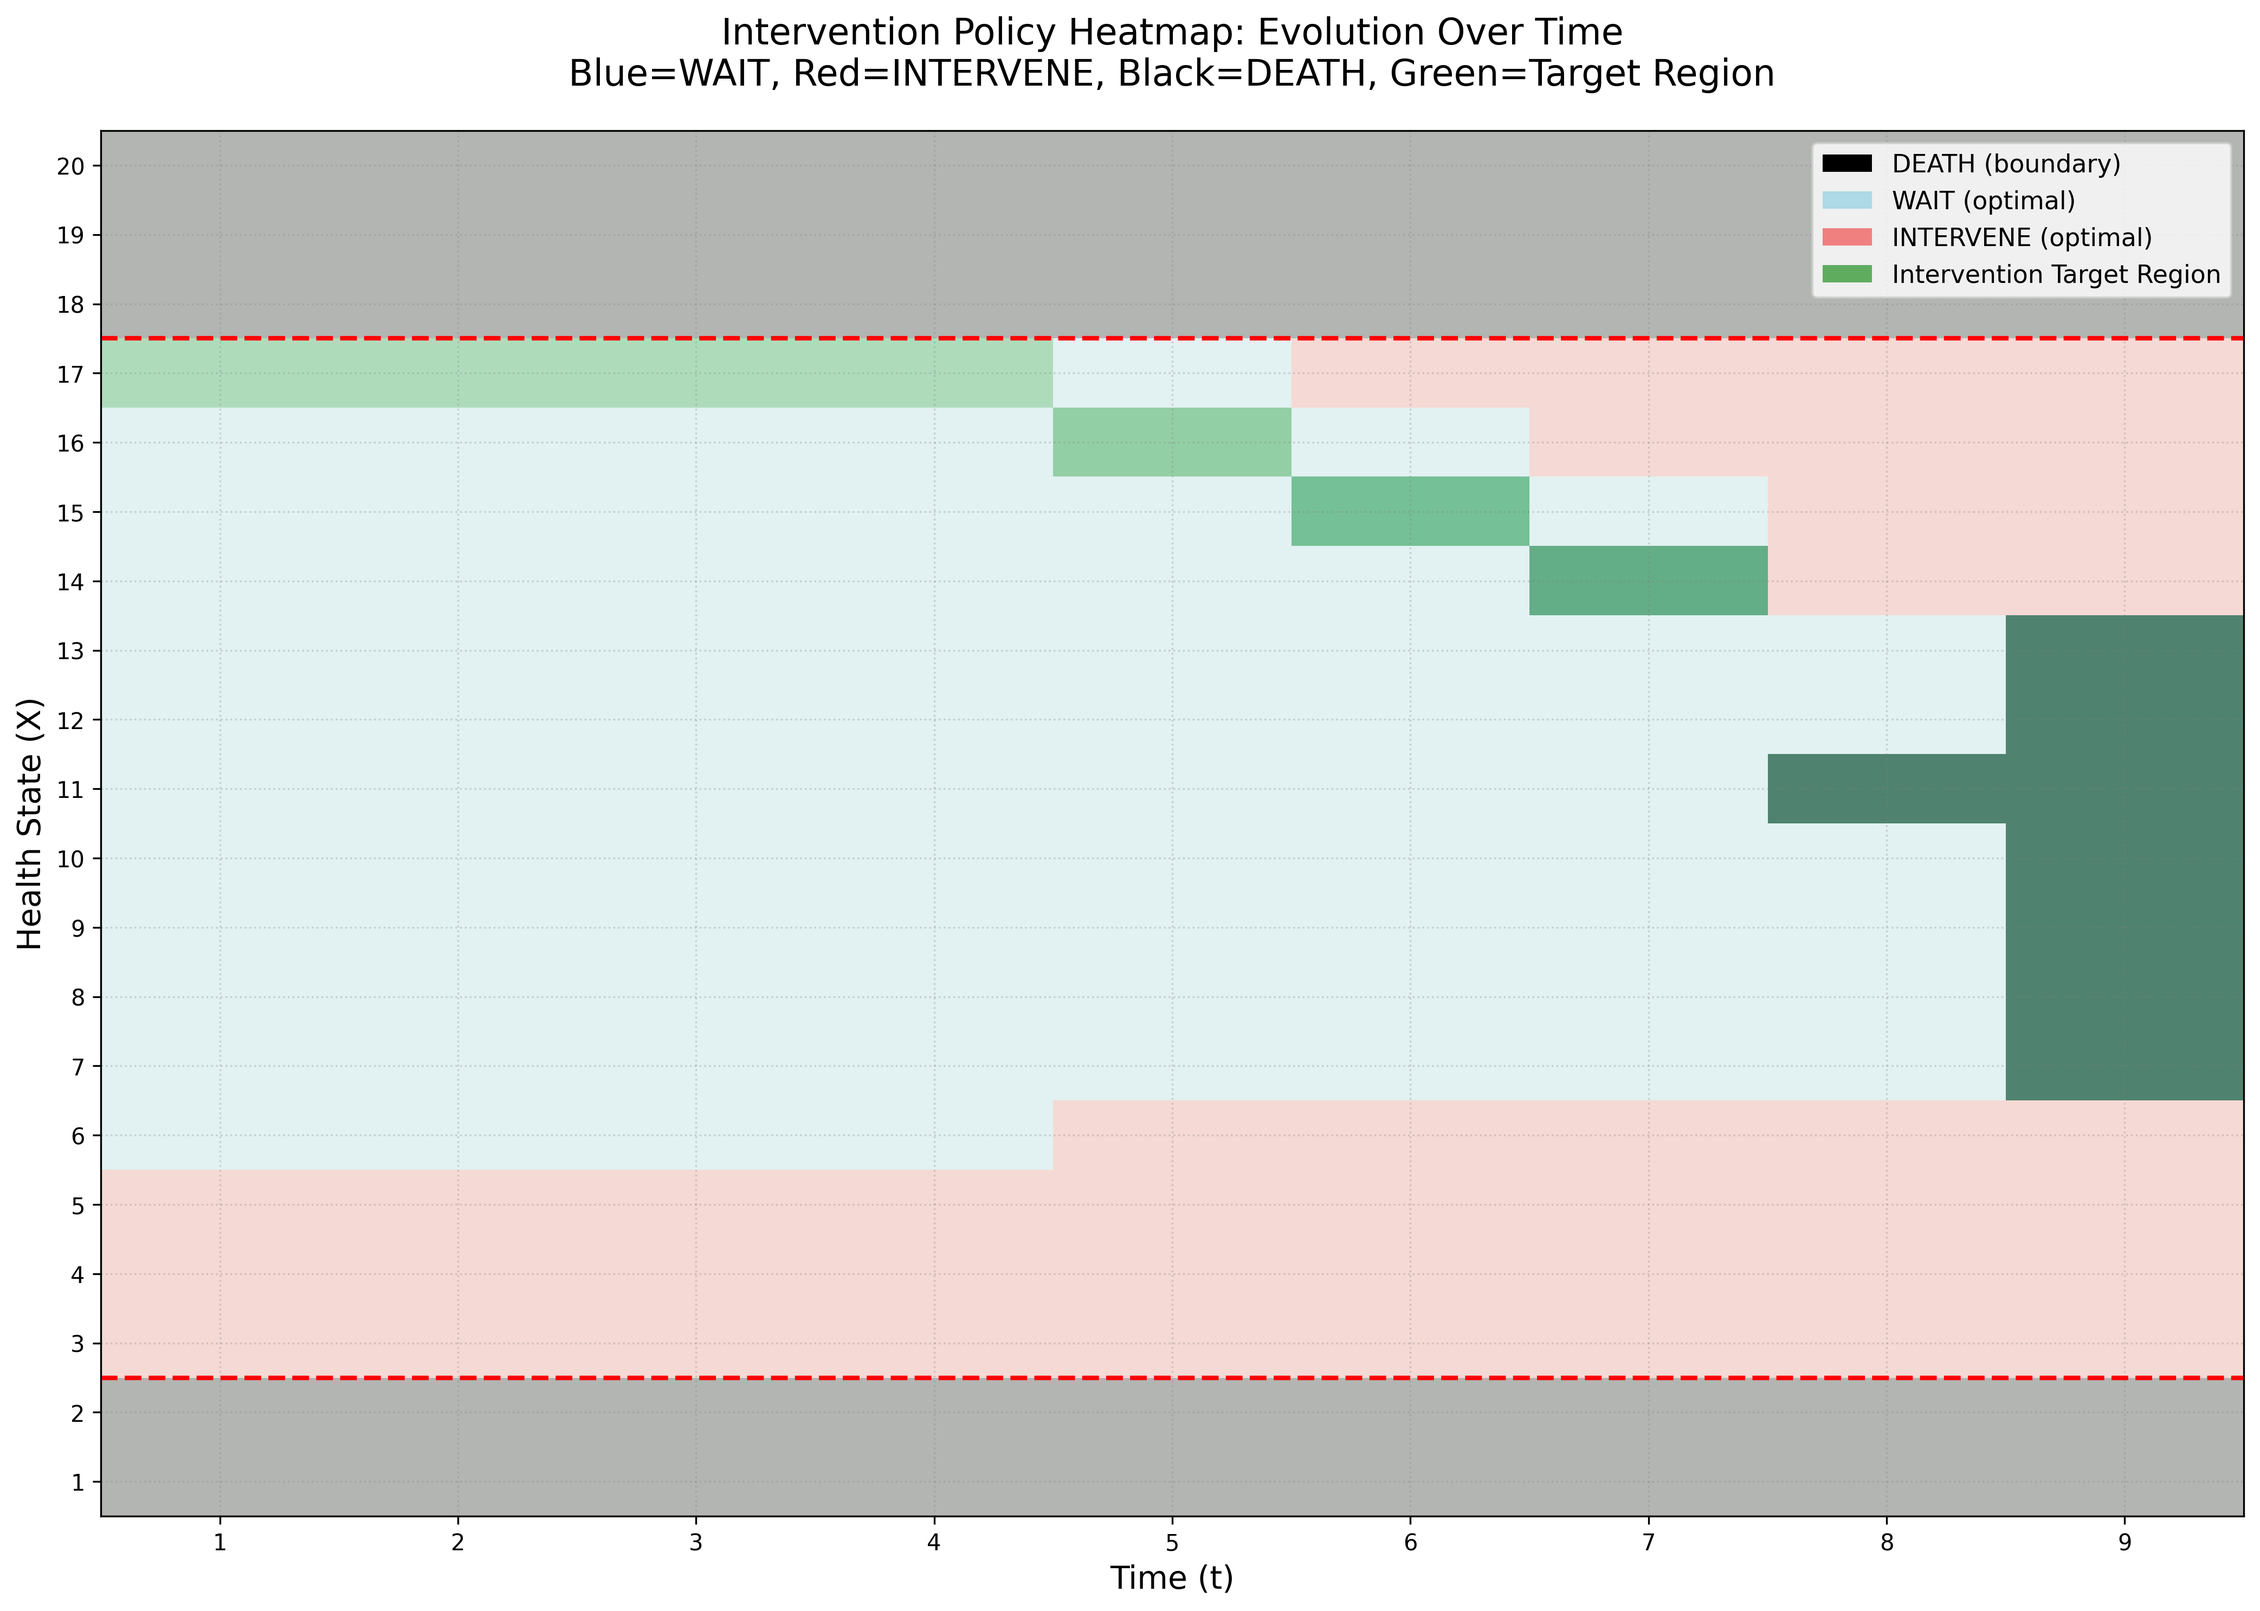
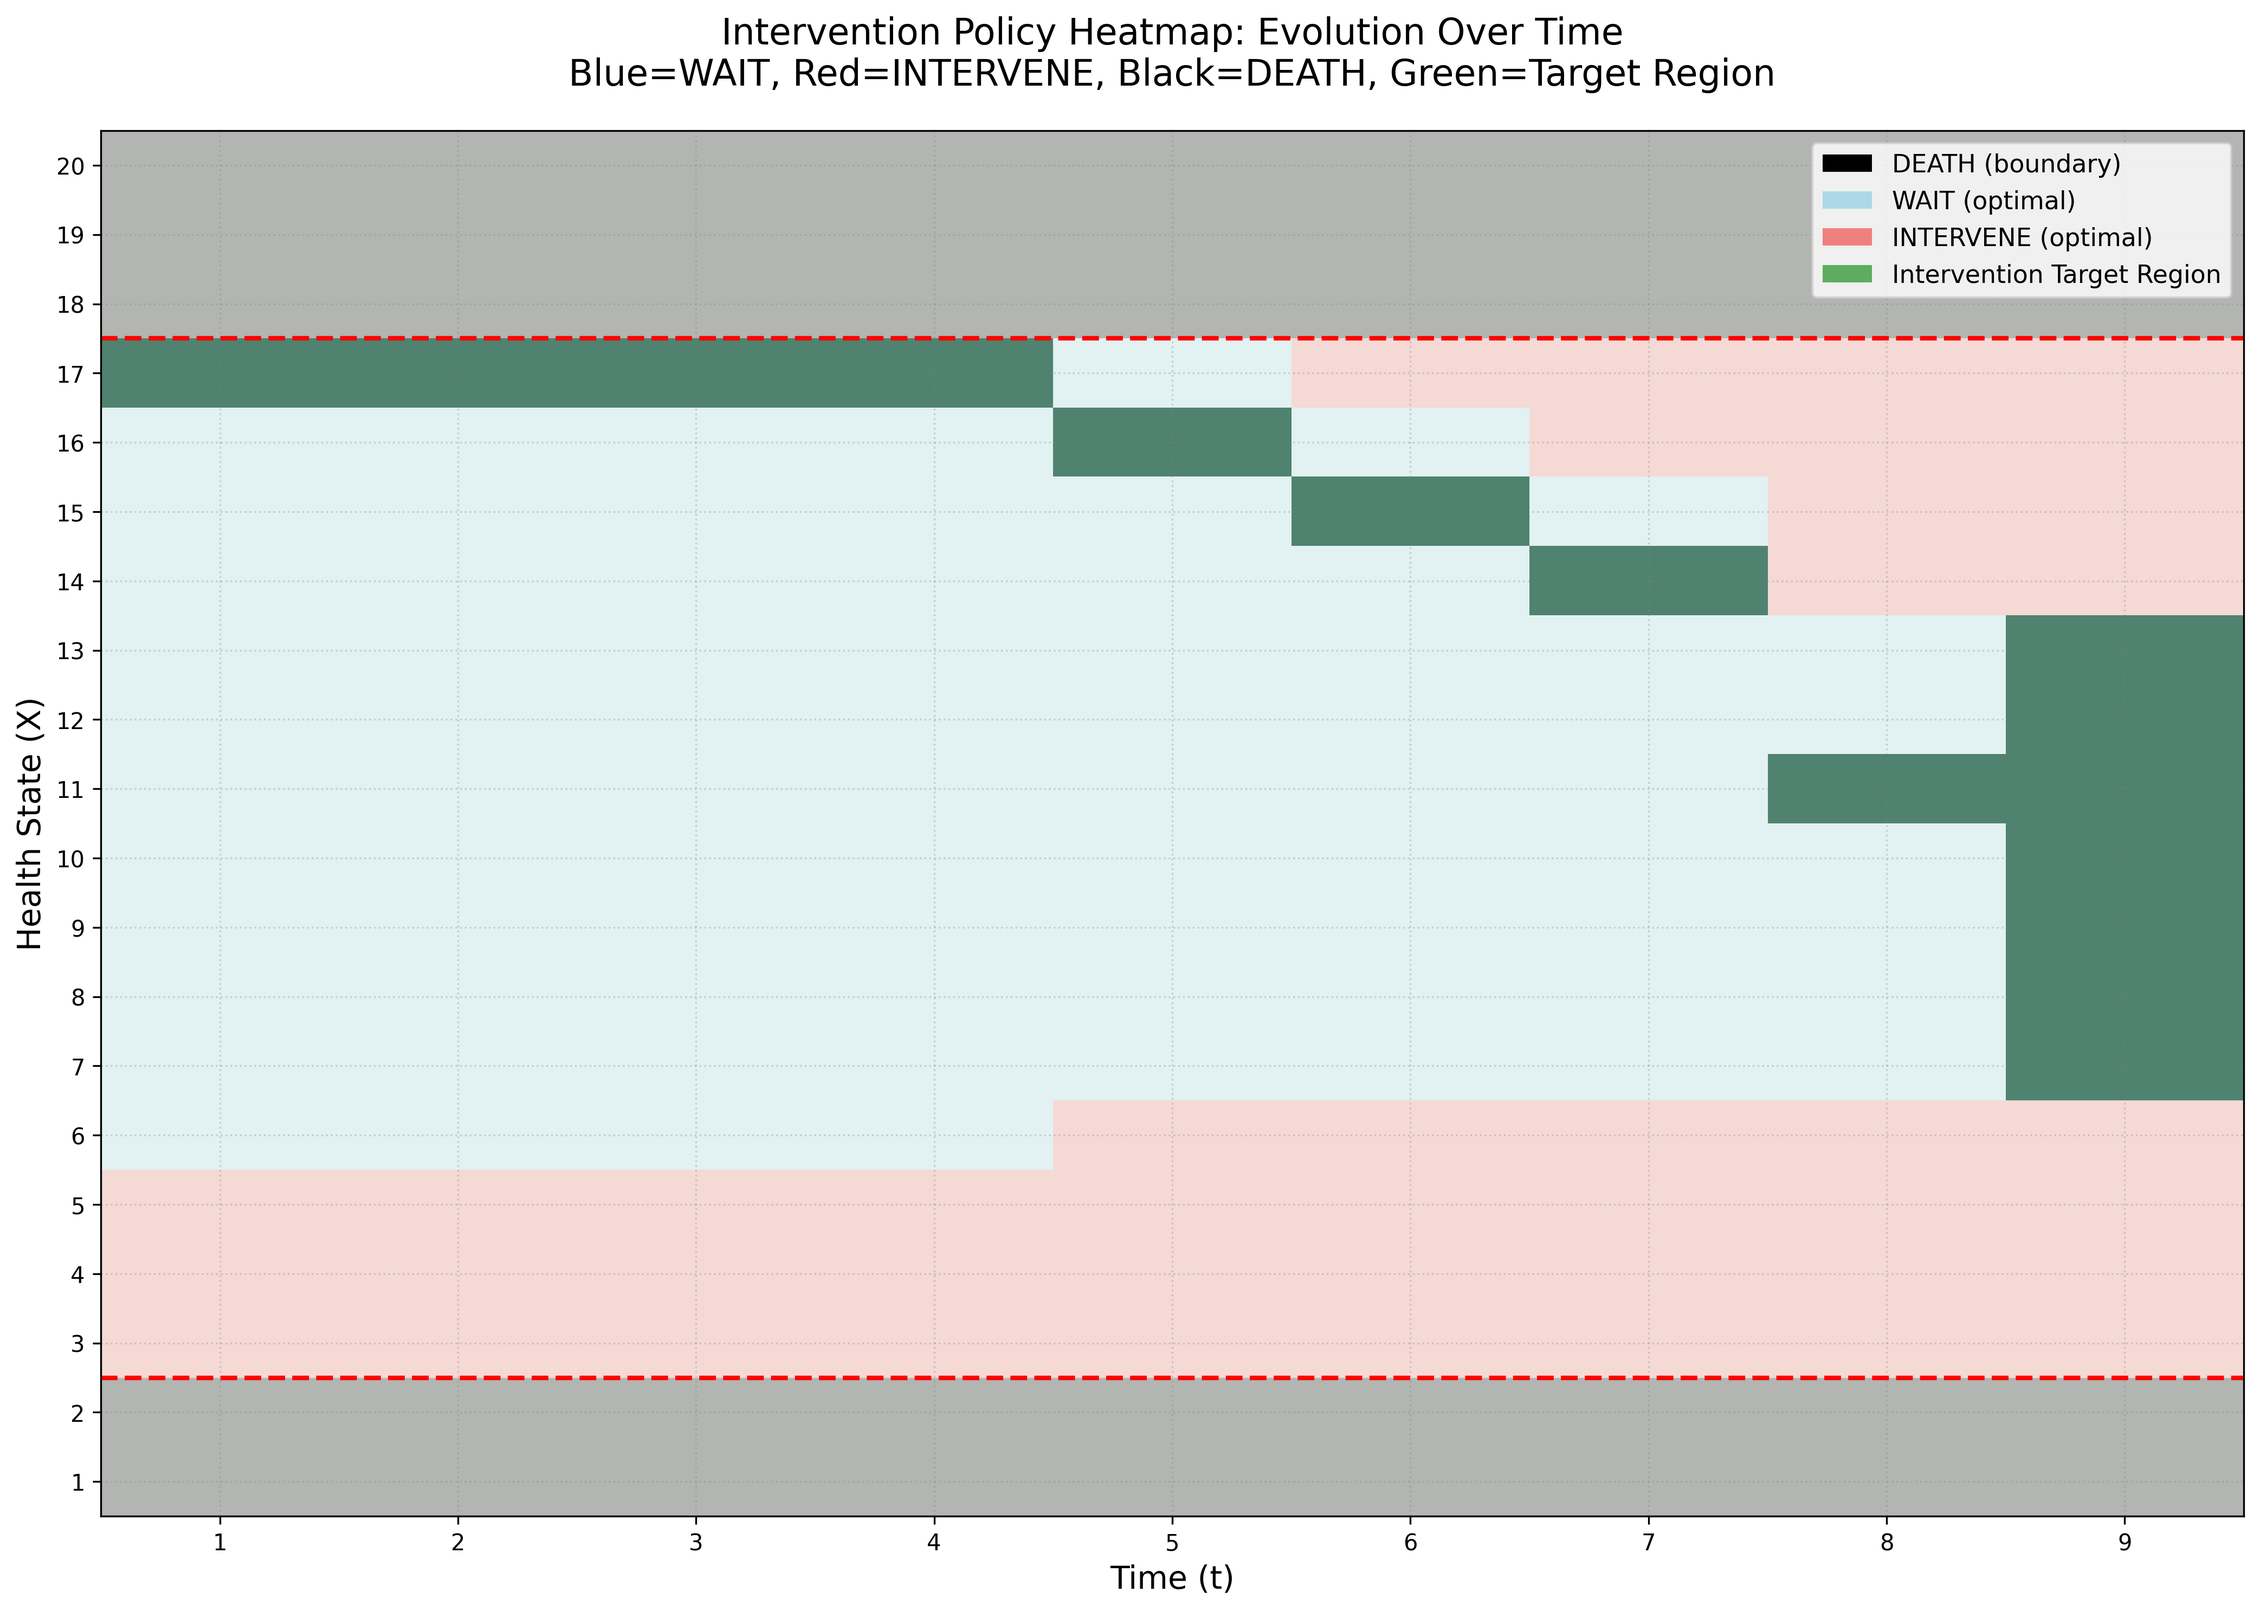
Added simulation

Changed region(s): [[0.0312, 0.1857, 0.7794, 0.4024]]

diff --git a/PhaseBOptimalStoppingProb/TEST.py b/PhaseBOptimalStoppingProb/TEST.py
@@ -232,15 +232,11 @@ class SimplifiedOptimalStopping:
                         targets = self.find_all_optimal_targets(t, X, U)
                         all_targets.update(targets)
                 
-                # Mark target region
+                # Mark target region (binary: 0 or 1)
                 for target_X in all_targets:
                     target_X_idx = target_X - self.X_min
                     if 0 <= target_X_idx < len(states):
-                        target_region[target_X_idx, t_idx] += 1
-        
-        # Normalize target region (darker = more states target this X)
-        if target_region.max() > 0:
-            target_region = target_region / target_region.max()
+                        target_region[target_X_idx, t_idx] = 1  # Just mark as 1, no accumulation
         
         # Create figure
         fig, ax = plt.subplots(figsize=(14, 10))
@@ -300,14 +296,191 @@ class SimplifiedOptimalStopping:
         print(f"2D heatmap saved to {filename}")
         return filename
 
+    def simulate_trajectories(self, n_sims=5, filename='intervention_simulations.png'):
+        print(f"Simulating {n_sims} trajectories...")
+        
+        if not self.policy:
+            print("Solving optimal stopping problem first...")
+            self.solve_optimal_stopping()
+        
+        # Run simulations
+        trajectories = []
+        
+        for sim in range(n_sims):
+            trajectory = {'t': [], 'X': [], 'intervened_at': None, 'survived': None}
+            
+            # Initialize - start at X0, sample first shock
+            t = 1
+            U_current = np.random.choice(self.U_values, p=self.U_probs)
+            X_current = self.X0  # <-- FIX: Just use X0 directly, no transition yet
+            I_current = 0
+            
+            trajectory['t'].append(t)
+            trajectory['X'].append(X_current)
+            
+            # Run trajectory
+            while t < self.T:
+                # Get policy for current state
+                policy = self.policy.get((t, X_current, U_current, I_current), 'WAIT')
+                
+                # Execute action
+                if policy == 'INTERVENE' and I_current == 0:
+                    X_target = self.optimal_intervention_target.get((t, X_current, U_current), X_current)
+                    X_current = X_target
+                    I_current = 1
+                    trajectory['intervened_at'] = t
+                
+                # Sample next shock and transition
+                U_next = np.random.choice(self.U_values, p=self.U_probs)
+                X_current = self.transition(X_current, U_next)
+                U_current = U_next
+                
+                t += 1
+                trajectory['t'].append(t)
+                trajectory['X'].append(X_current)
+            
+            # Check final outcome
+            trajectory['survived'] = self.compute_Y(X_current)
+            trajectories.append(trajectory)
+        
+        # Create visualization
+        fig, ax = plt.subplots(figsize=(14, 10))
+        
+        # First, recreate the heatmap background
+        times = np.arange(1, self.T)
+        states = np.arange(self.X_min, self.X_max + 1)
+        
+        policy_matrix = np.zeros((len(states), len(times)))
+        target_region = np.zeros((len(states), len(times)))
+        
+        for t_idx, t in enumerate(times):
+            for X_idx, X in enumerate(states):
+                if X < self.safe_min or X > self.safe_max:
+                    policy_matrix[X_idx, t_idx] = -1
+                    continue
+                
+                intervene_count = 0
+                wait_count = 0
+                
+                for U in self.U_values:
+                    policy = self.policy.get((t, X, U, 0), 'WAIT')
+                    if policy == 'INTERVENE':
+                        intervene_count += 1
+                    elif policy == 'WAIT':
+                        wait_count += 1
+                
+                if intervene_count > wait_count:
+                    policy_matrix[X_idx, t_idx] = 1
+                else:
+                    policy_matrix[X_idx, t_idx] = 0
+                
+                all_targets = set()
+                for U in self.U_values:
+                    if self.policy.get((t, X, U, 0)) == 'INTERVENE':
+                        targets = self.find_all_optimal_targets(t, X, U)
+                        all_targets.update(targets)
+                
+                for target_X in all_targets:
+                    target_X_idx = target_X - self.X_min
+                    if 0 <= target_X_idx < len(states):
+                        target_region[target_X_idx, t_idx] = 1
+        
+        # Plot heatmap
+        from matplotlib.colors import ListedColormap
+        colors = ['black', 'lightblue', 'lightcoral']
+        cmap = ListedColormap(colors)
+        
+        ax.imshow(policy_matrix, aspect='auto', origin='lower',
+                extent=[times[0]-0.5, times[-1]+0.5, 
+                        states[0]-0.5, states[-1]+0.5],
+                cmap=cmap, vmin=-1, vmax=1, alpha=0.4)
+        
+        ax.imshow(target_region, aspect='auto', origin='lower',
+                extent=[times[0]-0.5, times[-1]+0.5,
+                        states[0]-0.5, states[-1]+0.5],
+                cmap='Greens', alpha=0.3, vmin=0, vmax=1)
+        
+        # Add death zone boundaries
+        ax.axhline(y=self.safe_min - 0.5, color='red', linestyle='--', 
+                linewidth=2, alpha=0.7)
+        ax.axhline(y=self.safe_max + 0.5, color='red', linestyle='--', 
+                linewidth=2, alpha=0.7)
+        
+        # Plot trajectories
+        colors_sim = plt.cm.tab10(np.linspace(0, 1, n_sims))
+        
+        for idx, traj in enumerate(trajectories):
+            color = colors_sim[idx]
+            survived = traj['survived']
+            intervened_at = traj['intervened_at']
+            
+            # Plot line
+            label = f"Sim {idx+1}"
+            if survived:
+                label += " ✓"
+            else:
+                label += " ✗"
+            
+            ax.plot(traj['t'], traj['X'], 'o-', color=color, 
+                linewidth=2.5, markersize=8, alpha=0.9, label=label)
+            
+            # Mark intervention point with star
+            if intervened_at is not None:
+                intervened_idx = traj['t'].index(intervened_at)
+                ax.plot(traj['t'][intervened_idx], traj['X'][intervened_idx], 
+                    '*', color=color, markersize=20, markeredgecolor='yellow',
+                    markeredgewidth=2)
+        
+        # Labels and formatting
+        ax.set_xlabel('Time (t)', fontsize=14)
+        ax.set_ylabel('Health State (X)', fontsize=14)
+        ax.set_title(f'{n_sims} Simulated Trajectories with Optimal Policy\n' +
+                    'Stars (★) mark intervention, ✓=survived, ✗=died',
+                    fontsize=16, pad=20)
+        
+        ax.set_xticks(range(1, self.T + 1))
+        ax.set_yticks(range(self.X_min, self.X_max + 1))
+        ax.set_xlim(0.5, self.T + 0.5)
+        ax.set_ylim(self.X_min - 0.5, self.X_max + 0.5)
+        
+        ax.grid(True, alpha=0.3, linestyle=':', color='gray')
+        ax.legend(loc='upper right', fontsize=10, framealpha=0.9)
+        # Add legend for policy colors
+        from matplotlib.patches import Patch
+        legend_elements = [
+            Patch(facecolor='black', alpha=0.4, label='DEATH (boundary)'),
+            Patch(facecolor='lightblue', alpha=0.4, label='WAIT (optimal)'),
+            Patch(facecolor='lightcoral', alpha=0.4, label='INTERVENE (optimal)'),
+            Patch(facecolor='green', alpha=0.3, label='Intervention Target Region')
+        ]
 
+        # Add trajectory legend elements
+        for idx in range(n_sims):
+            color = colors_sim[idx]
+            legend_elements.append(plt.Line2D([0], [0], color=color, linewidth=2.5, 
+                                            marker='o', markersize=8, 
+                                            label=f"Sim {idx+1}"))
 
-# Run the simplified analysis
+        ax.legend(handles=legend_elements, loc='upper right', fontsize=10, framealpha=0.9)
+        plt.tight_layout()
+        plt.savefig(filename, dpi=300, bbox_inches='tight')
+        plt.close()
+        
+        print(f"Simulation plot saved to {filename}")
+        
+        # Print summary
+        print(f"\nSimulation Summary:")
+        for idx, traj in enumerate(trajectories):
+            status = "SURVIVED" if traj['survived'] else "DIED"
+            intervention = f"intervened at t={traj['intervened_at']}" if traj['intervened_at'] else "never intervened"
+            print(f"  Sim {idx+1}: {status}, {intervention}, final X={traj['X'][-1]}")
+        
+        return trajectories
+
 if __name__ == "__main__":
     model = SimplifiedOptimalStopping(X0=10)
     model.solve_optimal_stopping()
     model.create_2d_heatmap('intervention_heatmap_2d.png')
+    model.simulate_trajectories(n_sims=5, filename='intervention_simulations.png')
     
-    print("\n" + "="*80)
     print("Analysis Complete!")
-    print("="*80)
